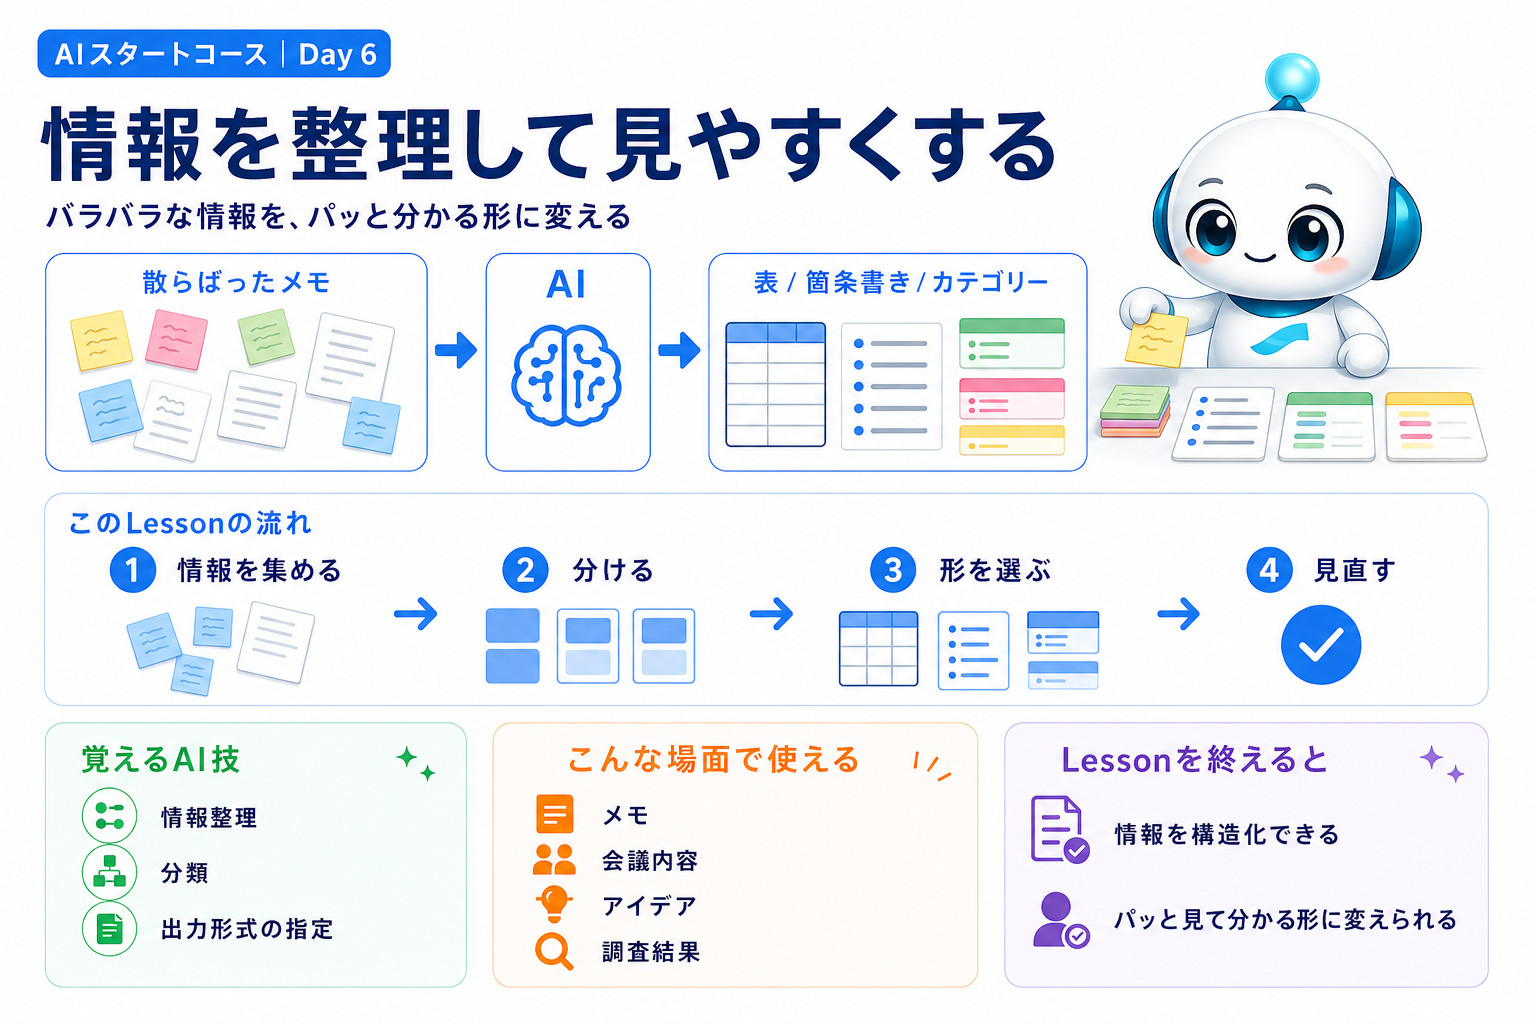
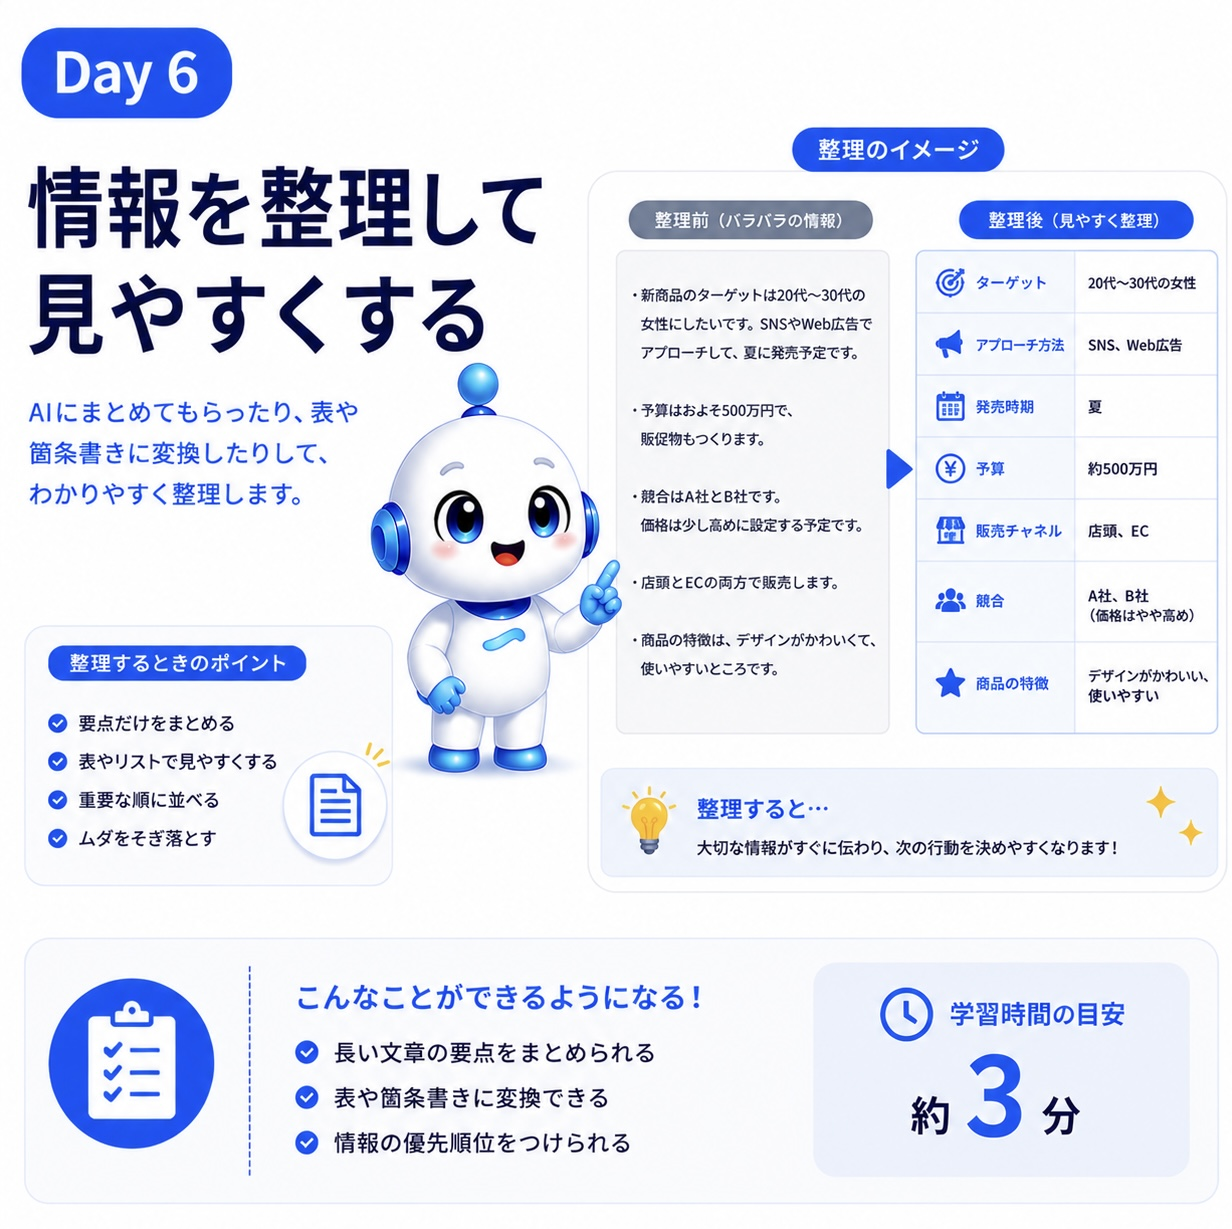
Day6〜8の全体図を差し替える
Day1〜5 と同じ形。3枚ともおよそ 1:1 で、3:2 ではない。

  day6_overview  1232×1229
  day7_overview  1254×1254
  day8_overview  1244×1232

比を絵ごとに取る仕組みは前のコミットで入れてあるので、ここで
することは実寸を表へ書くことと、読み上げ（alt）を絵に合わせて
書き直すことの2つ。

元の JPEG / PNG から可逆（VP8L）で変換し、3枚とも画素が一致する
ことを確かめてある。切り取っていないし、描き直してもいない。

表の頭に残っていた「3:2（1536×1024）」の1行も直した。いまは
1枚ずつ比が違うので、そこだけ読むと実寸を書かずに済ませてしまう。

Claude-Session: https://claude.ai/code/session_01UWDfE5KWwE2qpUypBSESMs

diff --git a/frontend/src/course/teachingImages.ts b/frontend/src/course/teachingImages.ts
@@ -17,8 +17,13 @@
  * --------
  *     public/assets/teaching/<名前>.webp
  *
- * 3:2（1536×1024）。出すのは `components/lessons/TeachingImage.tsx` で、
- * 切り取らずに1枚まるごと入れる。
+ * 出すのは `components/lessons/TeachingImage.tsx` で、切り取らずに
+ * 1枚まるごと入れる。
+ *
+ * 比は1枚ずつ違ってよい。AI技と比べる図は 3:2（1536×1024）、
+ * Day1〜8 の全体図はおよそ 1:1。既定（3:2）と違う絵には、下の
+ * `width`/`height` に実寸を書くこと——書かないと読み込む前だけ
+ * 3:2 で場所を取り、読み終わりに下の文とボタンが飛ぶ。
  *
  * 絵の中に説明がある
  * ------------------
@@ -352,8 +357,10 @@ const BY_LESSON: Record<string, Record<string, TeachingImageEntry>> = {
   organize_information: {
     outcome_preview: {
       src: "/assets/teaching/day6_overview.webp",
-      alt: "Day6「情報を整理して見やすくする」の全体図。散らばったメモをAIで表・箇条書き・カテゴリーへ変える流れと、覚えるAI技・使う場面・終えたらできることをまとめたもの。",
+      alt: "Day6「情報を整理して見やすくする」の全体図。ばらばらに書かれたメモが、ターゲット・アプローチ方法・発売時期・予算などの項目ごとに並んだ表へ変わることを示し、要点だけをまとめる・表やリストで見やすくする・重要な順に並べる・ムダをそぎ落とすという整理のポイントと、終えたらできるようになること3つ、学習時間の目安を添えたもの。",
       visualType: "lesson_overview",
+      width: 1232,
+      height: 1229,
     },
     concept_1: {
       src: "/assets/teaching/skill_12_information_organization.webp",
@@ -399,8 +406,10 @@ const BY_LESSON: Record<string, Record<string, TeachingImageEntry>> = {
   image_generation: {
     outcome_preview: {
       src: "/assets/teaching/day7_overview.webp",
-      alt: "Day7「AIで画像を作る」の全体図。言葉からAIで画像を作る流れと、覚えるAI技・使う場面・終えたらできることをまとめたもの。",
+      alt: "Day7「AIで画像を作る」の全体図。指示を考える・AIにお願いする・画像が完成する、という3つの手順を示し、プレゼン資料のイラストやSNSの投稿画像といった作れるものの例、具体的に伝える・色や雰囲気も指定する・最初はシンプルにするというコツ、終えたらできるようになること3つと学習時間の目安を添えたもの。",
       visualType: "lesson_overview",
+      width: 1254,
+      height: 1254,
     },
     concept_1: {
       src: "/assets/teaching/skill_14_image_prompt.webp",
@@ -449,8 +458,10 @@ const BY_LESSON: Record<string, Record<string, TeachingImageEntry>> = {
   image_edit: {
     outcome_preview: {
       src: "/assets/teaching/day8_overview.webp",
-      alt: "Day8「画像を修正する」の全体図。元画像の変えたい部分だけをAIへ伝えて直す流れと、覚えるAI技・使う場面・終えたらできることをまとめたもの。",
+      alt: "Day8「画像を修正する」の全体図。元の画像に「夕暮れを夜にして、星空を追加して」と指示すると、その通りに直った画像が返ってくる流れを示し、構図を変える・色や明るさを調整する・不要なものを消すといった修正の種類、具体的に伝える・1回の指示は1つずつ・何度でも調整できるというコツ、終えたらできるようになること4つと学習時間の目安を添えたもの。",
       visualType: "lesson_overview",
+      width: 1244,
+      height: 1232,
     },
     concept_1: {
       src: "/assets/teaching/skill_17_image_edit_instruction.webp",
